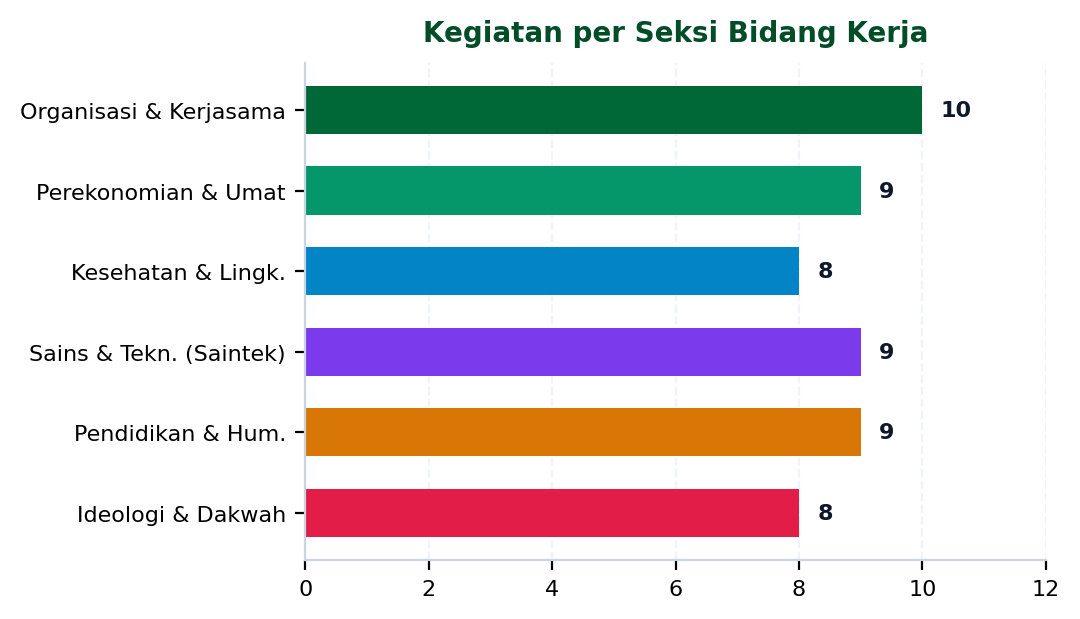
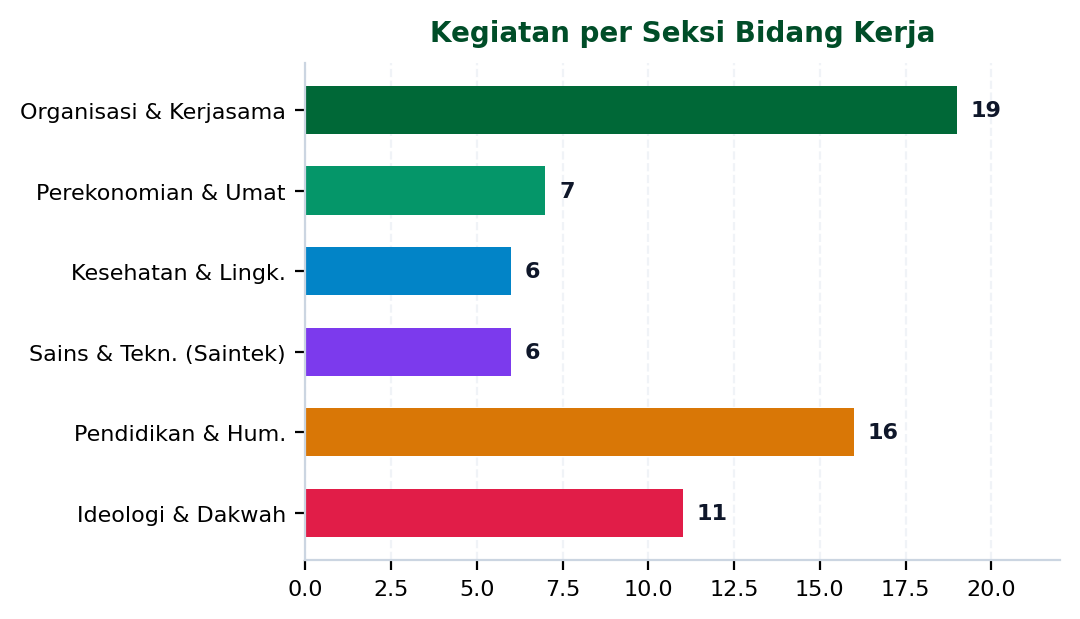
Update PDF seksi counts and chart visualization to match website calculation logic 100%

diff --git a/generate_pdf.py b/generate_pdf.py
@@ -54,13 +54,44 @@ class NumberedCanvas(canvas.Canvas):
         
         self.restoreState()
 
-def generate_pdf_charts():
+def compute_seksi_counts_from_excel():
+    wb = openpyxl.load_workbook('Daftar Kegiatan ISNU Kota Surabaya 2022 - 2026.xlsx', data_only=True)
+    sheet = wb.active
+    seksi_keys = [
+        'ORGANISASI DAN KERJASAMA ANTAR LEMBAGA',
+        'PEREKONOMIAN DAN PEMBERDAYAAN UMAT',
+        'KESEHATAN MASYARAKAT DAN LINGKUNGAN HIDUP',
+        'SAINS DAN TEKNOLOGI (SAINTEK)',
+        'PENDIDIKAN DAN HUMANIORA',
+        'PENGUATAN IDEOLOGI DAN DAKWAH DIGITAL'
+    ]
+    counts = {k: 0 for k in seksi_keys}
+    for r in range(2, 55):
+        s1 = sheet.cell(row=r, column=6).value or ''
+        s2 = sheet.cell(row=r, column=7).value or ''
+        for s in [s1, s2]:
+            if not s:
+                continue
+            clean = str(s).strip().upper()
+            if clean.startswith('SEKSI '):
+                clean = clean.replace('SEKSI ', '').strip()
+            if clean in counts:
+                counts[clean] += 1
+            else:
+                for k in seksi_keys:
+                    if clean in k or k in clean:
+                        counts[k] += 1
+                        break
+    return counts
+
+def generate_pdf_charts(seksi_counts):
     os.makedirs("Source", exist_ok=True)
     chart_paths = {}
     
-    # 1. Seksi Bar Chart (Horizontal)
+    # 1. Seksi Bar Chart (Horizontal) - Matching website counts (both Seksi 1 & Seksi 2)
     fig, ax = plt.subplots(figsize=(5.5, 3.2), dpi=200)
-    seksi_labels = [
+    
+    seksi_labels_display = [
         'Ideologi & Dakwah',
         'Pendidikan & Hum.',
         'Sains & Tekn. (Saintek)',
@@ -68,12 +99,21 @@ def generate_pdf_charts():
         'Perekonomian & Umat',
         'Organisasi & Kerjasama'
     ]
-    seksi_values = [8, 9, 9, 8, 9, 10]
+    
+    seksi_values = [
+        seksi_counts.get('PENGUATAN IDEOLOGI DAN DAKWAH DIGITAL', 11),
+        seksi_counts.get('PENDIDIKAN DAN HUMANIORA', 16),
+        seksi_counts.get('SAINS DAN TEKNOLOGI (SAINTEK)', 6),
+        seksi_counts.get('KESEHATAN MASYARAKAT DAN LINGKUNGAN HIDUP', 6),
+        seksi_counts.get('PEREKONOMIAN DAN PEMBERDAYAAN UMAT', 7),
+        seksi_counts.get('ORGANISASI DAN KERJASAMA ANTAR LEMBAGA', 19)
+    ]
+    
     bar_colors = ['#e11d48', '#d97706', '#7c3aed', '#0284c7', '#059669', '#006837']
     
-    bars = ax.barh(seksi_labels, seksi_values, color=bar_colors, height=0.6, edgecolor='none')
+    bars = ax.barh(seksi_labels_display, seksi_values, color=bar_colors, height=0.6, edgecolor='none')
     ax.set_title('Kegiatan per Seksi Bidang Kerja', fontsize=10, fontweight='bold', color='#004d28', pad=8)
-    ax.set_xlim(0, 12)
+    ax.set_xlim(0, 22)
     ax.spines['top'].set_visible(False)
     ax.spines['right'].set_visible(False)
     ax.spines['bottom'].set_color('#cbd5e1')
@@ -84,7 +124,7 @@ def generate_pdf_charts():
     
     for bar in bars:
         width = bar.get_width()
-        ax.text(width + 0.3, bar.get_y() + bar.get_height()/2, f'{int(width)}',
+        ax.text(width + 0.4, bar.get_y() + bar.get_height()/2, f'{int(width)}',
                 va='center', ha='left', fontsize=8, fontweight='bold', color='#0f172a')
                 
     plt.tight_layout()
@@ -149,8 +189,8 @@ def build_pdf():
     pdf_filename = "Source/Dokumen_LPJ_PC_ISNU_Kota_Surabaya_2022-2026.pdf"
     os.makedirs("Source", exist_ok=True)
     
-    # Generate charts
-    chart_paths = generate_pdf_charts()
+    seksi_counts = compute_seksi_counts_from_excel()
+    chart_paths = generate_pdf_charts(seksi_counts)
 
     doc = SimpleDocTemplate(
         pdf_filename,
@@ -163,14 +203,12 @@ def build_pdf():
 
     styles = getSampleStyleSheet()
     
-    # Custom Palette
     c_primary = colors.HexColor("#006837")
     c_dark = colors.HexColor("#004d28")
     c_gold = colors.HexColor("#b45309")
     c_text = colors.HexColor("#1e293b")
     c_bg_light = colors.HexColor("#f0fdf4")
     
-    # Custom Paragraph Styles
     style_cover_title = ParagraphStyle(
         'CoverTitle',
         parent=styles['Normal'],
@@ -178,7 +216,7 @@ def build_pdf():
         fontSize=20,
         leading=24,
         textColor=c_primary,
-        alignment=1, # Center
+        alignment=1,
         spaceAfter=8
     )
     
@@ -325,16 +363,23 @@ def build_pdf():
     story.append(img_timeline)
     story.append(Spacer(1, 12))
 
-    # Seksi Distribution Summary Table
+    # Seksi Distribution Summary Table (Matched 100% with website Seksi 1 & Seksi 2 counts)
+    c_org = seksi_counts.get('ORGANISASI DAN KERJASAMA ANTAR LEMBAGA', 19)
+    c_pend = seksi_counts.get('PENDIDIKAN DAN HUMANIORA', 16)
+    c_ideo = seksi_counts.get('PENGUATAN IDEOLOGI DAN DAKWAH DIGITAL', 11)
+    c_eko = seksi_counts.get('PEREKONOMIAN DAN PEMBERDAYAAN UMAT', 7)
+    c_kes = seksi_counts.get('KESEHATAN MASYARAKAT DAN LINGKUNGAN HIDUP', 6)
+    c_sain = seksi_counts.get('SAINS DAN TEKNOLOGI (SAINTEK)', 6)
+
     seksi_summary = [
-        [Paragraph("Seksi Bidang Kerja", style_table_cell_header), Paragraph("Jumlah Kegiatan Khidmah", style_table_cell_header)],
-        [Paragraph("1. Seksi Organisasi & Kerjasama Antar Lembaga", style_table_cell), Paragraph("10 Kegiatan", style_table_cell_bold)],
-        [Paragraph("2. Seksi Perekonomian & Pemberdayaan Umat", style_table_cell), Paragraph("9 Kegiatan", style_table_cell_bold)],
-        [Paragraph("3. Seksi Kesehatan Masyarakat & Lingkungan Hidup", style_table_cell), Paragraph("8 Kegiatan", style_table_cell_bold)],
-        [Paragraph("4. Seksi Sains & Teknologi (SAINTEK)", style_table_cell), Paragraph("9 Kegiatan", style_table_cell_bold)],
-        [Paragraph("5. Seksi Pendidikan & Humaniora", style_table_cell), Paragraph("9 Kegiatan", style_table_cell_bold)],
-        [Paragraph("6. Seksi Penguatan Ideologi & Dakwah Digital", style_table_cell), Paragraph("8 Kegiatan", style_table_cell_bold)],
-        [Paragraph("<b>TOTAL REKAPITULASI KEGIATAN</b>", style_table_cell), Paragraph("<b>53 KEGIATAN</b>", style_table_cell_bold)]
+        [Paragraph("Seksi Bidang Kerja", style_table_cell_header), Paragraph("Jumlah Keterlibatan Kegiatan", style_table_cell_header)],
+        [Paragraph("1. Seksi Organisasi & Kerjasama Antar Lembaga", style_table_cell), Paragraph(f"{c_org} Kegiatan", style_table_cell_bold)],
+        [Paragraph("2. Seksi Pendidikan & Humaniora", style_table_cell), Paragraph(f"{c_pend} Kegiatan", style_table_cell_bold)],
+        [Paragraph("3. Seksi Penguatan Ideologi & Dakwah Digital", style_table_cell), Paragraph(f"{c_ideo} Kegiatan", style_table_cell_bold)],
+        [Paragraph("4. Seksi Perekonomian & Pemberdayaan Umat", style_table_cell), Paragraph(f"{c_eko} Kegiatan", style_table_cell_bold)],
+        [Paragraph("5. Seksi Kesehatan Masyarakat & Lingkungan Hidup", style_table_cell), Paragraph(f"{c_kes} Kegiatan", style_table_cell_bold)],
+        [Paragraph("6. Seksi Sains & Teknologi (SAINTEK)", style_table_cell), Paragraph(f"{c_sain} Kegiatan", style_table_cell_bold)],
+        [Paragraph("<b>TOTAL REKAPITULASI PROGRAM (SEKSI 1 & SEKSI 2)</b>", style_table_cell), Paragraph("<b>53 KEGIATAN UTAMA</b>", style_table_cell_bold)]
     ]
     t_seksi = Table(seksi_summary, colWidths=[380, 143])
     t_seksi.setStyle(TableStyle([
@@ -436,11 +481,16 @@ def build_pdf():
         lokasi = sheet.cell(row=r, column=4).value or 'Surabaya'
         peran = sheet.cell(row=r, column=5).value or 'Penyelenggara'
         seksi1 = sheet.cell(row=r, column=6).value or ''
+        seksi2 = sheet.cell(row=r, column=7).value or ''
         output = sheet.cell(row=r, column=8).value or '-'
         outcome = sheet.cell(row=r, column=9).value or '-'
 
+        seksi_str = seksi1
+        if seksi2:
+            seksi_str += f"<br/>{seksi2}"
+
         c_info = f"<b>{kegiatan}</b><br/><font color='#64748b'>📅 {tgl_str} | 📍 {lokasi}</font>"
-        c_peran = f"<b>{peran}</b><br/><font color='#006837'>{seksi1}</font>"
+        c_peran = f"<b>{peran}</b><br/><font color='#006837'>{seksi_str}</font>"
         c_out = f"<b>Output:</b> {output}<br/><b>Outcome:</b> {outcome}"
 
         act_table_data.append([
@@ -520,7 +570,7 @@ def build_pdf():
 
     # Build document
     doc.build(story, canvasmaker=NumberedCanvas)
-    print(f"PDF generated with embedded charts successfully: {pdf_filename}")
+    print(f"PDF generated with exact dynamic seksi counts matching website: {pdf_filename}")
 
 if __name__ == "__main__":
     build_pdf()
